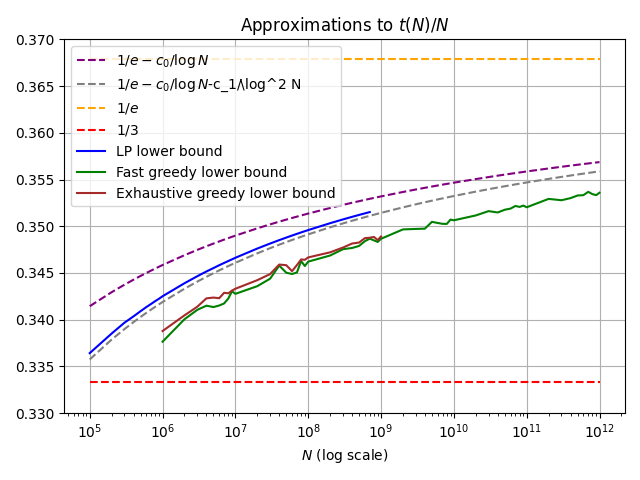
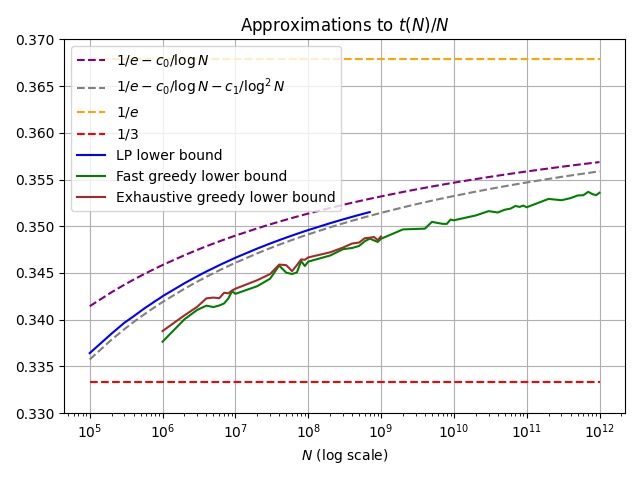
minor tweaks

Changed region(s): [[0.125, 0.2188, 0.5312, 0.4375], [0.125, 0.1562, 0.4688, 0.2188]]

diff --git a/src/python/table.py b/src/python/table.py
@@ -245,7 +245,7 @@ def plot():
 
     fig, ax = plt.subplots()
     ax.plot(base, asym, linestyle="--", label='$1/e-c_0/\\log N$', color='purple' )
-    ax.plot(base, asym2, linestyle="--", label='$1/e-c_0/\\log N$-c_1/\\log^2 N', color='gray' )
+    ax.plot(base, asym2, linestyle="--", label='$1/e-c_0/\\log N-c_1/\\log^2 N$', color='gray' )
     ax.plot(base, [1/math.e for _ in base], linestyle="--", label='$1/e$', color='orange' )
     ax.plot(base, [1/3 for _ in base], linestyle="--", label='$1/3$', color='red' )
     ax.plot(base1, t1, label='LP lower bound', color='blue' )

diff --git a/src/python/histogram.py b/src/python/histogram.py
@@ -90,6 +90,7 @@ width = (bins[1] - bins[0]) / 3  # width of each bar (smaller than bin width)
 plt.bar(bin_centers + width/2, counts2, width=width, label='Factors of the form $p \\lceil t/p \\rceil$ for $p \\geq t/\\lceil \\sqrt{t} \\rceil$')
 plt.bar(bin_centers - width/2, counts1, width=width, label='Other factors')
 
+plt.title('Optimal factorization of $N!$ for $N=43632$')
 plt.xlabel('Value')
 plt.ylabel('Count')
 plt.legend()
